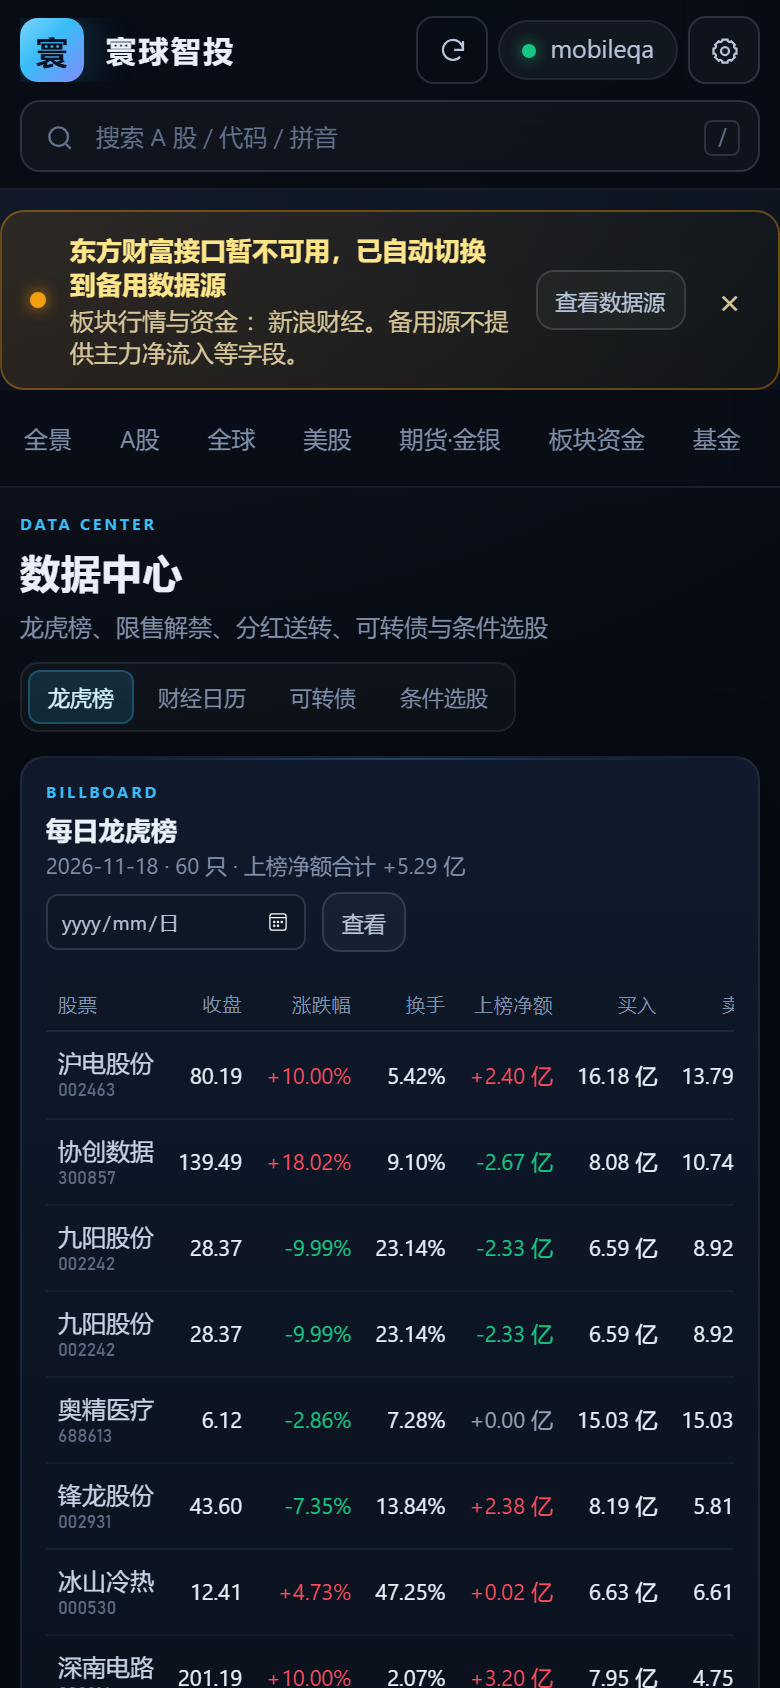
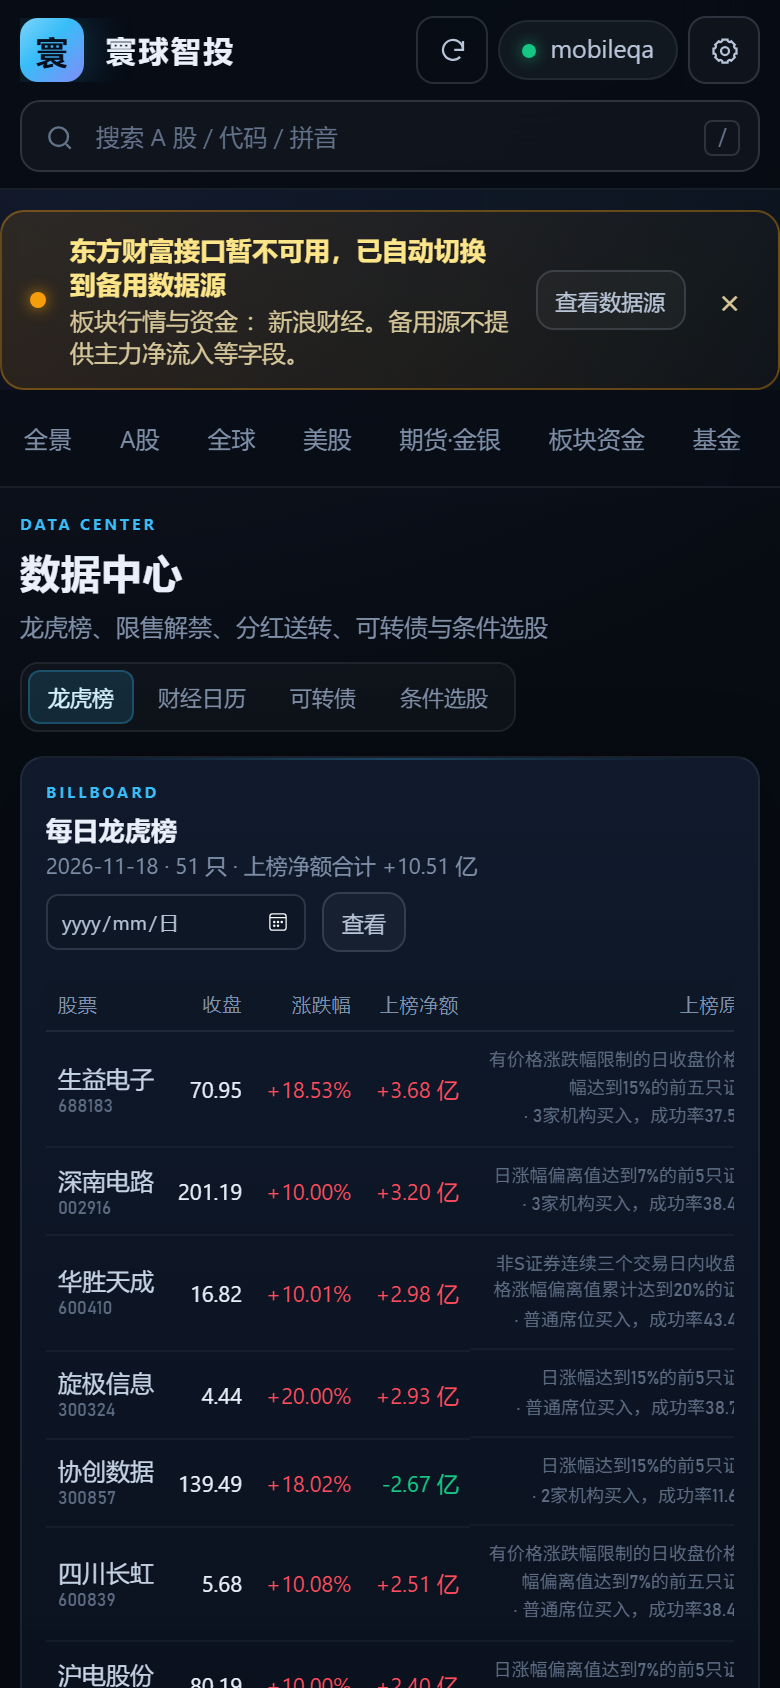
auto: 2026-11-19 01:00

diff --git a/lib/datacenter.js b/lib/datacenter.js
@@ -211,13 +211,26 @@ async function longhuBoard(opts = {}) {
       filter,
     });
     const items = rows.map(normLonghuRow).filter((x) => x.code);
-    const total = items.reduce((s, x) => s + (x.netYi || 0), 0);
+    // 同一只股票可能因多个「上榜原因」各占一行，金额是同一份席位成交——
+    // 直接平铺会出现重复行、看着像脏数据，这里按代码合并并把原因拼起来（不求和，避免重复计算）。
+    const byCode = new Map();
+    for (const item of items) {
+      const hit = byCode.get(item.code);
+      if (!hit) {
+        byCode.set(item.code, { ...item, reasons: item.reason ? [item.reason] : [] });
+        continue;
+      }
+      if (item.reason && !hit.reasons.includes(item.reason)) hit.reasons.push(item.reason);
+    }
+    const merged = [...byCode.values()].map((x) => ({ ...x, reason: x.reasons.join('；'), reasons: undefined }));
+    merged.sort((a, b) => Math.abs(b.netYi || 0) - Math.abs(a.netYi || 0));
+    const total = merged.reduce((s, x) => s + (x.netYi || 0), 0);
     return {
       date: opts.date,
-      items,
-      count: items.length,
+      items: merged,
+      count: merged.length,
       netTotalYi: round(total, 2),
-      note: '龙虎榜为交易所公开的席位成交披露，买卖金额是上榜席位合计，不等于全部成交。',
+      note: '龙虎榜为交易所公开的席位成交披露，买卖金额是上榜席位合计，不等于全部成交；同一只股票命中多个上榜原因时合并为一行。',
     };
   });
 }

diff --git a/public/css/app.css b/public/css/app.css
@@ -3009,3 +3009,18 @@ button[hidden] { display: none !important; }
   .paper-trade-table { min-width: 640px; }
 }
 
+
+/* 龙虎榜：手机上列太多，隐藏「换手 / 买入 / 卖出 / 成交占比」四列，
+   保留 股票 / 收盘 / 涨跌幅 / 上榜净额 / 上榜原因 —— 原因比明细金额更有信息量 */
+@media (max-width: 700px) {
+  .longhu-table th:nth-child(4),
+  .longhu-table td:nth-child(4),
+  .longhu-table th:nth-child(6),
+  .longhu-table td:nth-child(6),
+  .longhu-table th:nth-child(7),
+  .longhu-table td:nth-child(7),
+  .longhu-table th:nth-child(8),
+  .longhu-table td:nth-child(8) { display: none; }
+  .longhu-table td:last-child { max-width: 150px; white-space: normal; line-height: 1.5; }
+}
+

diff --git a/public/index.html b/public/index.html
@@ -1209,7 +1209,7 @@
             </div>
           </div>
           <div class="table-scroll tall-table">
-            <table class="table" id="longhuTable"></table>
+            <table class="table longhu-table" id="longhuTable"></table>
           </div>
           <p class="muted small mt12" id="longhuNote">龙虎榜为交易所公开的席位成交披露；买卖金额是上榜席位合计，不等于全部成交。</p>
         </article>
